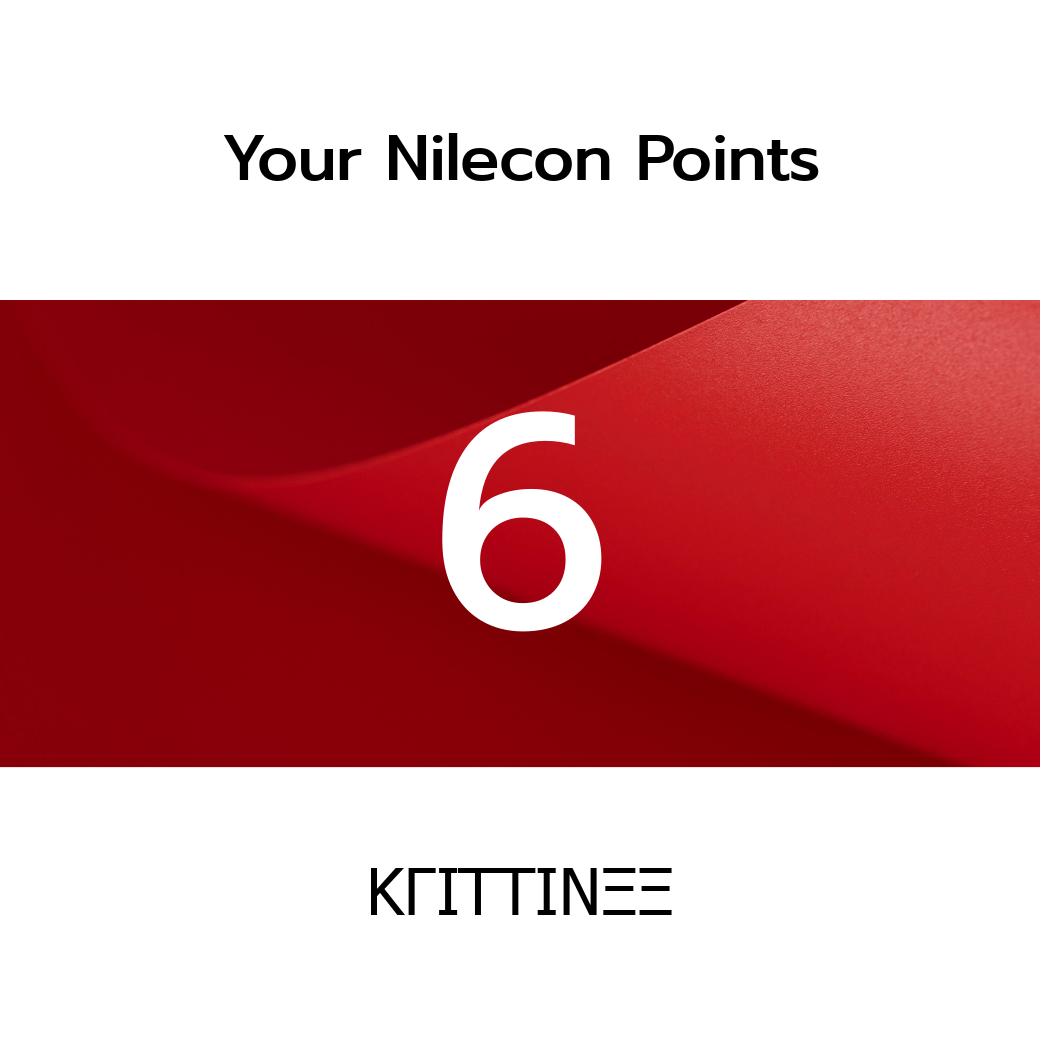
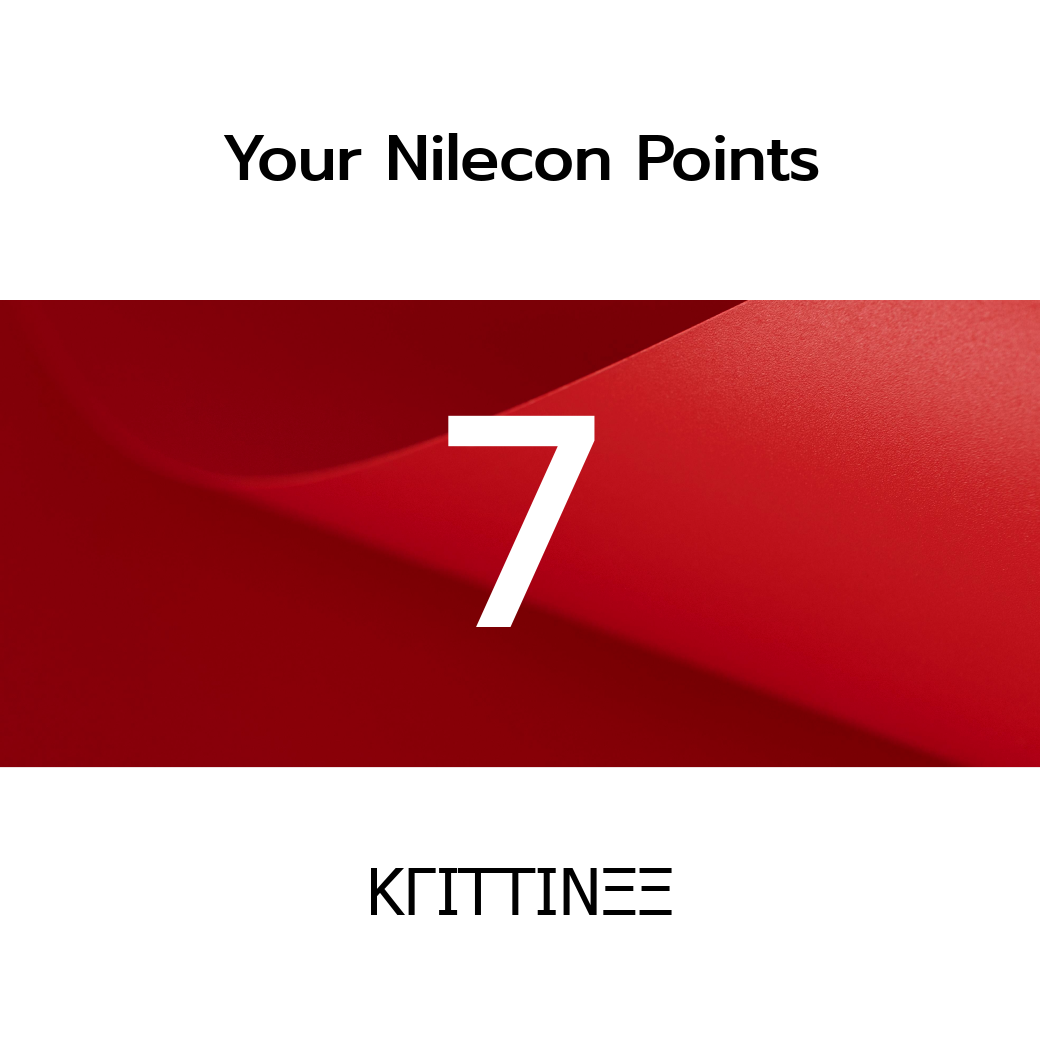
try

Changed region(s): [[0.4, 0.3692, 0.5846, 0.6154]]

diff --git a/app/model/lineWebhook.js b/app/model/lineWebhook.js
@@ -27,8 +27,6 @@ LINE_SDK.Webhook = function (req) {
         const userId = event.source.userId;
         const profile = await client.getProfile(userId);
 
-        // await loading(userId);
-
         //console.log("Processing event:", event);
         //console.log(profile)
 
@@ -50,62 +48,6 @@ LINE_SDK.Webhook = function (req) {
   });
 }
 
-LINE_SDK.getProfile = function (userId) {
-  return new Promise(async (resolve, reject) => {
-
-    try {
-      const response = await fetch(`https://api.line.me/v2/bot/profile/${userId}`, {
-        method: 'GET',
-        headers: {
-          'Authorization': `Bearer ${lineConfig.channelAccessToken}`
-        }
-      });
-
-      if (!response.ok) {
-        throw new Error(`HTTP error! Status: ${response.status}`);
-      }
-
-      const data = await response.json(); // The response is already parsed as an object
-      //console.log('data Profile:', data);
-
-      const user = {
-        userId: data.userId,
-        displayName: data.displayName,
-        pictureUrl: data.pictureUrl
-      }
-
-      //console.log('User Profile:', user);
-
-      resolve(user);
-
-    } catch (error) {
-      console.error('Error fetching user profile:', error);
-      reject(error)
-    }
-  })
-}
-
-// function loading(userId) {
-//   return fetch("https://api.line.me/v2/bot/chat/loading/start", {
-//     method: "POST", // HTTP method
-//     headers: {
-//       "Content-Type": "application/json", // Content type
-//       Authorization: `Bearer ${lineConfig.channelAccessToken}` // Authorization header with Bearer token
-//     },
-//     body: JSON.stringify({ chatId: userId }) // Request payload
-//   })
-//     .then(response => {
-//       if (!response.ok) {
-//         throw new Error(`HTTP error! Status: ${response.status}`);
-//       }
-//       return response.json();
-//     })
-//     .catch(error => {
-//       console.error("Error:", error);
-//     });
-// }
-
-
 const message_trigger = async function (event, userId) {
   if (event.type === 'message') {
     let text = event.message.text;
@@ -116,19 +58,17 @@ const message_trigger = async function (event, userId) {
       await Transfer.getBalanceByUserId(userId)
         .then((result) => {
           Canvas.pointBalance(event, client, result)
-
-          const pointCard = [
-            {
-              "type": "image",
-              "originalContentUrl": "https://example.com/original.jpg",
-              "previewImageUrl": "https://example.com/preview.jpg"
-            }
-          ];
-
         }).catch((err) => {
           console.log(err)
         });
-        
+
+      const pointCard = [
+        {
+          "type": "image",
+          "originalContentUrl": "https://example.com/original.jpg",
+          "previewImageUrl": "https://example.com/preview.jpg"
+        }
+      ];
     }
   }
 }

diff --git a/app/model/transfer.js b/app/model/transfer.js
@@ -1,6 +1,5 @@
 const sql = require('../../configs/db');
 const Canvas = require('./Canvas');
-const LINE_SDK = require('./lineWebhook');
 
 var Transfer = function () {
     this.created_at = new Date()
@@ -115,8 +114,8 @@ Transfer.transferPoint = function (transferInput) {
             slip_url: transferInput.slip_url
         }
 
-        const sender = await LINE_SDK.getProfile(transferDb.sender_id)
-        const receiver = await LINE_SDK.getProfile(transferDb.receiver_id)
+        const sender = await Transfer.getProfile(transferDb.sender_id)
+        const receiver = await Transfer.getProfile(transferDb.receiver_id)
 
         let drawPlayLoad = {
             sender,
@@ -469,6 +468,41 @@ Transfer.voidEarn = function (voidInput) {
                 response.statusCode = 500;
                 reject(response);
             });
+    })
+}
+
+Transfer.getProfile = function (userId) {
+    return new Promise(async (resolve, reject) => {
+
+        try {
+            const response = await fetch(`https://api.line.me/v2/bot/profile/${userId}`, {
+                method: 'GET',
+                headers: {
+                    'Authorization': `Bearer ${lineConfig.channelAccessToken}`
+                }
+            });
+
+            if (!response.ok) {
+                throw new Error(`HTTP error! Status: ${response.status}`);
+            }
+
+            const data = await response.json(); // The response is already parsed as an object
+            //console.log('data Profile:', data);
+
+            const user = {
+                userId: data.userId,
+                displayName: data.displayName,
+                pictureUrl: data.pictureUrl
+            }
+
+            //console.log('User Profile:', user);
+
+            resolve(user);
+
+        } catch (error) {
+            console.error('Error fetching user profile:', error);
+            reject(error)
+        }
     })
 }
 

diff --git a/app/model/canvas.js b/app/model/canvas.js
@@ -268,9 +268,9 @@ Canvas.pointBalance = function (event, client, result) {
         const profile = await client.getProfile(userId);
 
         const BalanceData = result.data.balance
+        console.log(BalanceData)
 
         console.log(profile)
-        console.log(BalanceData)
 
         if (!profile) {
             console.error('No profile data returned');
@@ -320,10 +320,10 @@ Canvas.pointBalance = function (event, client, result) {
 
                     ctx.drawImage(image, 0, 300, 1040, 468.13);
 
-                    const Point = BalanceData;
+                    const Point = BalanceData || 0;
 
                     ctx.fillStyle = '#fff'
-                    ctx.font = 'bold 300px Prompt'
+                    ctx.font = '300px Prompt'
                     ctx.fillText(`${Point}`, 520, 300)
 
                     // Save the canvas to a file
